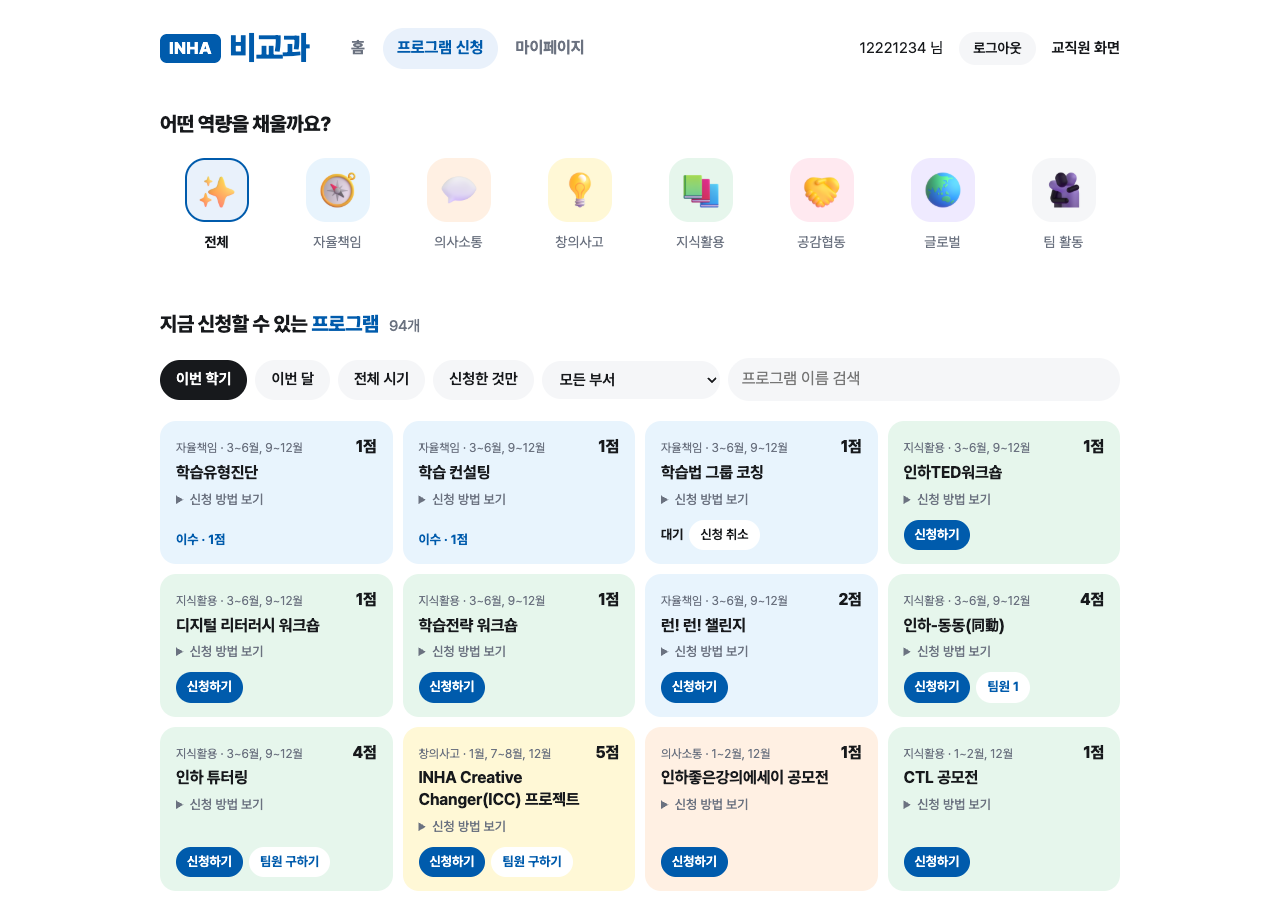
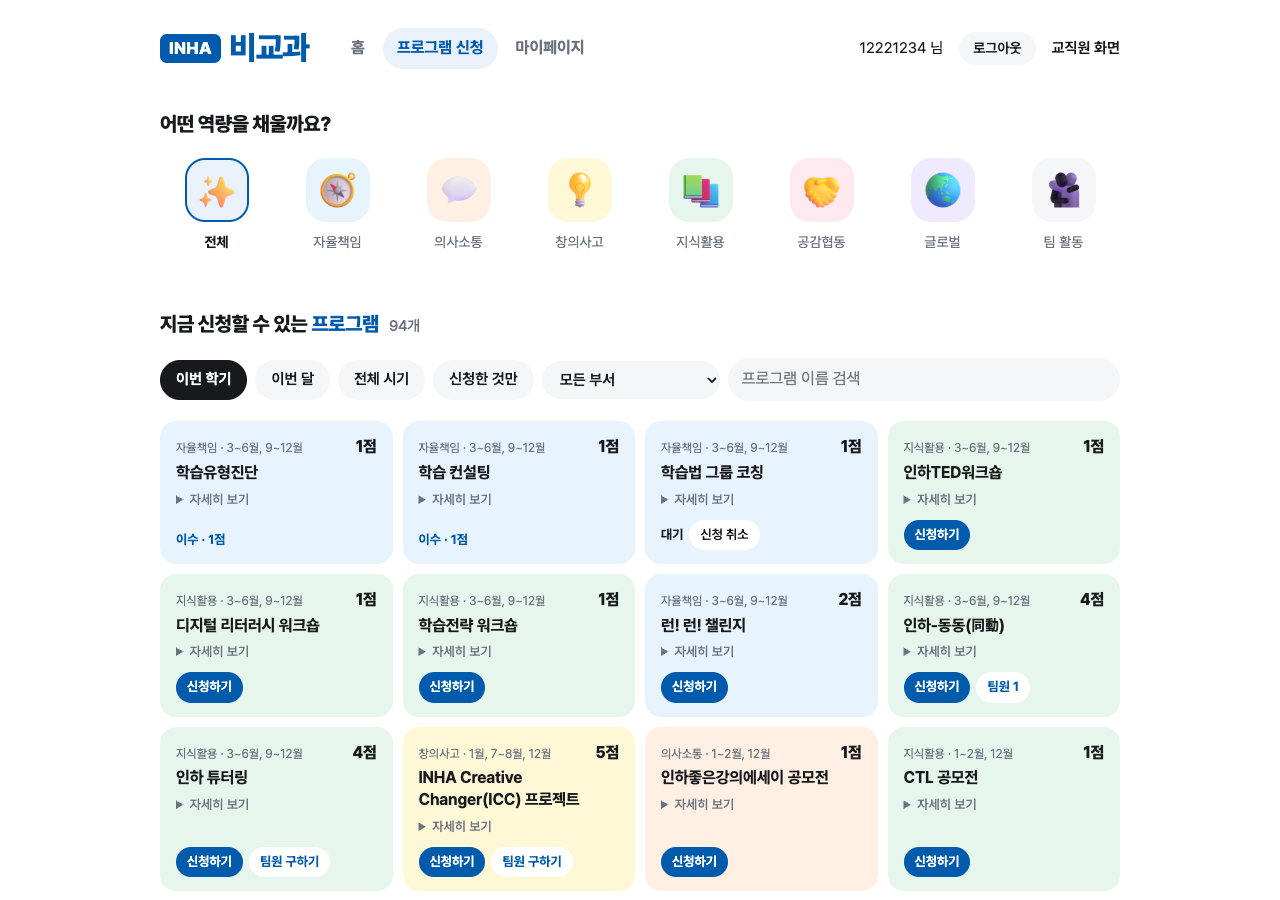
feat: 신청은 이 사이트에서만 — 외부 신청 방법 안내 제거

diff --git a/index.html b/index.html
@@ -5,7 +5,7 @@
 <meta name="viewport" content="width=device-width, initial-scale=1">
 <title>인하 비교과 마일리지</title>
 <link rel="stylesheet" href="https://cdn.jsdelivr.net/gh/orioncactus/pretendard@v1.3.9/dist/web/variable/pretendardvariable-dynamic-subset.min.css">
-<link rel="stylesheet" href="css/style.css?v=22">
+<link rel="stylesheet" href="css/style.css?v=23">
 </head>
 <body>
 <main>
@@ -125,7 +125,7 @@
 
   <h2><em>마일리지</em>는 이렇게 쌓여요</h2>
   <ol class="steps">
-    <li><h3>신청</h3><p>인하포털의 비교과과정이나 주관부서 홈페이지에서 신청해요. 프로그램마다 신청하는 곳이 달라요.</p></li>
+    <li><h3>신청</h3><p>이 사이트의 <a href="programs.html" data-keep>프로그램 신청</a>에서 "신청하기"를 누르면 돼요. 주관부서 교직원이 신청자 중에서 선발해요.</p></li>
     <li><h3>참여하고 이수</h3><p>프로그램을 끝까지 마치면 이수예요. 프로그램 하나에 1~6마일리지가 걸려 있어요.</p></li>
     <li><h3>3주 안에 반영</h3><p>프로그램이 끝나고 3주 안에 주관부서 교직원이 이수와 점수를 입력해요. 3주가 지나도 안 바뀌면 주관부서에 문의하세요.</p></li>
     <li><h3>끝난 날 기준으로 학기 구분</h3><p>1~6월에 끝나면 1학기, 7~12월에 끝나면 2학기 마일리지예요. 5월에 시작해 8월에 끝나면 2학기로 들어가요.</p></li>
@@ -158,16 +158,16 @@
 
 <footer>
   <div>
-    <p><strong>지금은 시험 버전이에요.</strong> 신청하기를 눌러도 학교에 접수되지 않고, 기록은 이 브라우저에만 저장돼요. 실제 신청은 각 프로그램의 신청 방법대로 해주세요.</p>
+    <p><strong>지금은 시험 버전이에요.</strong> 신청하기를 눌러도 학교에 접수되지 않고, 기록은 이 브라우저에만 저장돼요.</p>
     <p>인하대학교 공식 서비스가 아니에요. 내용은 「2026 인하 더 배움(비교과) 프로그램 가이드북」(교육기획팀)을 옮겨 정리한 것이고, 실제 일정과 마일리지는 달라질 수 있어요.
       확정 마일리지는 인하포털 → 학사행정 → 비교과과정에서 확인하세요.</p>
   </div>
 </footer>
-<script src="js/data.js?v=22"></script>
-<script src="js/logic.js?v=22"></script>
-<script src="js/config.js?v=22"></script>
-<script src="js/board.js?v=22"></script>
-<script src="js/common.js?v=22"></script>
-<script src="js/home.js?v=22"></script>
+<script src="js/data.js?v=23"></script>
+<script src="js/logic.js?v=23"></script>
+<script src="js/config.js?v=23"></script>
+<script src="js/board.js?v=23"></script>
+<script src="js/common.js?v=23"></script>
+<script src="js/home.js?v=23"></script>
 </body>
 </html>

diff --git a/programs.html b/programs.html
@@ -5,7 +5,7 @@
 <meta name="viewport" content="width=device-width, initial-scale=1">
 <title>프로그램 신청 · 인하 비교과 마일리지</title>
 <link rel="stylesheet" href="https://cdn.jsdelivr.net/gh/orioncactus/pretendard@v1.3.9/dist/web/variable/pretendardvariable-dynamic-subset.min.css">
-<link rel="stylesheet" href="css/style.css?v=22">
+<link rel="stylesheet" href="css/style.css?v=23">
 </head>
 <body>
 <main>
@@ -48,16 +48,16 @@
 
 <footer>
   <div>
-    <p><strong>지금은 시험 버전이에요.</strong> 신청하기를 눌러도 학교에 접수되지 않고, 기록은 이 브라우저에만 저장돼요. 실제 신청은 각 프로그램의 신청 방법대로 해주세요.</p>
+    <p><strong>지금은 시험 버전이에요.</strong> 신청하기를 눌러도 학교에 접수되지 않고, 기록은 이 브라우저에만 저장돼요.</p>
     <p>인하대학교 공식 서비스가 아니에요. 내용은 「2026 인하 더 배움(비교과) 프로그램 가이드북」(교육기획팀)을 옮겨 정리한 것이고, 실제 일정과 마일리지는 달라질 수 있어요.
       확정 마일리지는 인하포털 → 학사행정 → 비교과과정에서 확인하세요.</p>
   </div>
 </footer>
-<script src="js/data.js?v=22"></script>
-<script src="js/logic.js?v=22"></script>
-<script src="js/config.js?v=22"></script>
-<script src="js/board.js?v=22"></script>
-<script src="js/common.js?v=22"></script>
-<script src="js/programs.js?v=22"></script>
+<script src="js/data.js?v=23"></script>
+<script src="js/logic.js?v=23"></script>
+<script src="js/config.js?v=23"></script>
+<script src="js/board.js?v=23"></script>
+<script src="js/common.js?v=23"></script>
+<script src="js/programs.js?v=23"></script>
 </body>
 </html>

diff --git a/admin.html b/admin.html
@@ -5,7 +5,7 @@
 <meta name="viewport" content="width=device-width, initial-scale=1">
 <title>교직원 화면 (시연용) · 인하 비교과 마일리지</title>
 <link rel="stylesheet" href="https://cdn.jsdelivr.net/gh/orioncactus/pretendard@v1.3.9/dist/web/variable/pretendardvariable-dynamic-subset.min.css">
-<link rel="stylesheet" href="css/style.css?v=22">
+<link rel="stylesheet" href="css/style.css?v=23">
 </head>
 <body>
 <main>
@@ -55,8 +55,6 @@
             <option value="year">연중</option>
             <option value="any">상시 (공지 확인)</option>
           </select></label>
-        <label class="wide">신청 방법
-          <input id="pApply" maxlength="120" required placeholder="예: 인하포털 → 학사행정 → 비교과과정에서 신청"></label>
         <label>팀 구성 (팀 활동일 때만)
           <input id="pTeam" maxlength="40" placeholder="예: 3~5명 팀"></label>
         <label>참고 (선택)
@@ -103,8 +101,8 @@
     <div class="actions" style="margin-top:32px"><button type="button" id="removeProgram" hidden>이 활동 삭제</button></div>
   </section>
 </main>
-<script src="js/data.js?v=22"></script>
-<script src="js/logic.js?v=22"></script>
-<script src="js/admin.js?v=22"></script>
+<script src="js/data.js?v=23"></script>
+<script src="js/logic.js?v=23"></script>
+<script src="js/admin.js?v=23"></script>
 </body>
 </html>

diff --git a/mypage.html b/mypage.html
@@ -5,7 +5,7 @@
 <meta name="viewport" content="width=device-width, initial-scale=1">
 <title>마이페이지 · 인하 비교과 마일리지</title>
 <link rel="stylesheet" href="https://cdn.jsdelivr.net/gh/orioncactus/pretendard@v1.3.9/dist/web/variable/pretendardvariable-dynamic-subset.min.css">
-<link rel="stylesheet" href="css/style.css?v=22">
+<link rel="stylesheet" href="css/style.css?v=23">
 </head>
 <body>
 <main class="my">
@@ -59,11 +59,11 @@
   <ul id="myComments" class="posts" aria-labelledby="comments-title"></ul>
   <p id="commentsEmpty" class="empty">아직 쓴 댓글이 없어요.</p>
 </main>
-<script src="js/data.js?v=22"></script>
-<script src="js/logic.js?v=22"></script>
-<script src="js/config.js?v=22"></script>
-<script src="js/board.js?v=22"></script>
-<script src="js/common.js?v=22"></script>
-<script src="js/mypage.js?v=22"></script>
+<script src="js/data.js?v=23"></script>
+<script src="js/logic.js?v=23"></script>
+<script src="js/config.js?v=23"></script>
+<script src="js/board.js?v=23"></script>
+<script src="js/common.js?v=23"></script>
+<script src="js/mypage.js?v=23"></script>
 </body>
 </html>

diff --git a/js/admin.js b/js/admin.js
@@ -146,12 +146,12 @@ if (program) {
     // 신청이 활동 이름으로 묶여 있어서 이름이 겹치면 안 됨
     if (PROGRAMS.some((p) => p.name === name)) { $('message').textContent = `"${name}" 활동이 이미 있어요. 다른 이름으로 등록해 주세요.`; return; }
     // 값은 고르는 칸에서만 오게 하고, 점수는 1~30 사이로 맞춤 (저장된 값을 학생 화면이 그대로 씀)
-    if (!name || !(text('pDept') in DEPTS) || !COMPS.includes(text('pComp')) || !text('pApply')) return;
+    if (!name || !(text('pDept') in DEPTS) || !COMPS.includes(text('pComp'))) return;
     const added = {
       name, dept: text('pDept'), comp: text('pComp'),
       points: Math.min(30, Math.max(1, Math.round(Number($('pPoints').value)) || 1)),
       months: { term: TERM, vac: VAC, year: R(1, 12), any: ALL }[$('pWhen').value] ?? ALL,
-      apply: text('pApply'), custom: true,
+      custom: true,
     };
     if (text('pTeam')) added.team = text('pTeam');
     if (text('pNote')) added.note = text('pNote');

diff --git a/team.html b/team.html
@@ -5,7 +5,7 @@
 <meta name="viewport" content="width=device-width, initial-scale=1">
 <title>팀원 구하기 · 인하 비교과 마일리지</title>
 <link rel="stylesheet" href="https://cdn.jsdelivr.net/gh/orioncactus/pretendard@v1.3.9/dist/web/variable/pretendardvariable-dynamic-subset.min.css">
-<link rel="stylesheet" href="css/style.css?v=22">
+<link rel="stylesheet" href="css/style.css?v=23">
 </head>
 <body>
 <main>
@@ -32,10 +32,10 @@
   <ul id="posts" class="posts" aria-labelledby="posts-title"></ul>
   <p id="empty" class="empty">아직 글이 없어요. 첫 글을 써보세요.</p>
 </main>
-<script src="js/data.js?v=22"></script>
-<script src="js/logic.js?v=22"></script>
-<script src="js/config.js?v=22"></script>
-<script src="js/board.js?v=22"></script>
-<script src="js/team.js?v=22"></script>
+<script src="js/data.js?v=23"></script>
+<script src="js/logic.js?v=23"></script>
+<script src="js/config.js?v=23"></script>
+<script src="js/board.js?v=23"></script>
+<script src="js/team.js?v=23"></script>
 </body>
 </html>

diff --git a/js/programs.js b/js/programs.js
@@ -47,11 +47,10 @@ function renderList() {
     const info = el('dl', 'info');
     const row = (title, ...detail) => { const dd = el('dd'); dd.append(...detail); info.append(el('dt', '', title), dd); };
     row('부서', Object.assign(el('a', '', p.dept), { href: DEPTS[p.dept], target: '_blank', rel: 'noopener' }));
-    row('신청', p.apply);
     if (p.team) row('팀', p.team);
     if (p.note) row('참고', p.note);
     const more = el('details');
-    more.append(el('summary', '', '신청 방법 보기'), info);
+    more.append(el('summary', '', '자세히 보기'), info);
 
     // 학생은 신청만 함. 선발과 점수는 교직원 화면에서.
     const mine = el('div', 'mine');

diff --git a/login.html b/login.html
@@ -5,7 +5,7 @@
 <meta name="viewport" content="width=device-width, initial-scale=1">
 <title>로그인 · 인하 비교과 마일리지</title>
 <link rel="stylesheet" href="https://cdn.jsdelivr.net/gh/orioncactus/pretendard@v1.3.9/dist/web/variable/pretendardvariable-dynamic-subset.min.css">
-<link rel="stylesheet" href="css/style.css?v=22">
+<link rel="stylesheet" href="css/style.css?v=23">
 </head>
 <body class="login">
   <section class="login-art">
